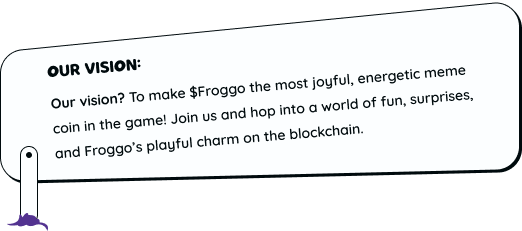
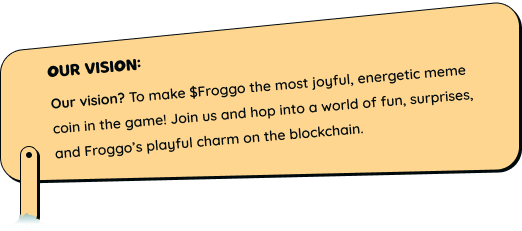
first commit

diff --git a/src/app/component/Pagethree.js b/src/app/component/Pagethree.js
@@ -1,19 +1,22 @@
 import React from 'react';
 import Image from 'next/image';
 import image10 from './image/image10.png';
+import image11 from './image/image11.png';
 import image15 from './image/image15.png';
 import image16 from './image/image16.png'
 
 
 const Pagethree = () => {
     return (
-        <div className='bg-[#FBE287] relative z-0'>
+        <div className='lineargredientimagebackground relative z-0'>
+            
                         <Image className='pointer-events-none animate-contrastEffect !z-[999] absolute top-[-10px] sm:top-[-20px] lg:top-[-42px] left-[50%] translate-x-[-50%] w-full select-none ' src={image10} alt="" />
-                        <Image className='pointer-events-none animate-contrastEffect !z-[999] absolute bottom-[-10px] sm:bottom-[-20px] lg:bottom-[-42px] left-[50%] translate-x-[-50%] w-full select-none ' src={image10} alt="" />
+                        {/* <Image className='pointer-events-none animate-contrastEffect !z-[999] absolute bottom-[-10px] sm:bottom-[-20px] lg:bottom-[-42px] left-[50%] translate-x-[-50%] w-full select-none ' src={image10} alt="" /> */}
             <div className="container mx-auto py-[50px] sm:py-[60px] md:py-[80px] lg:py-[100] xl:pt-[120px] 2xl:pt-[158px]">
-                <h1 className='Froggo-headding-2 text-[40px] sm:text-[44px] md:text-[50px] lg:text-[60px] xl:text-[70px] 2xl:text-[80px] uppercase pb-[30px] sm:pb-[40px] md:pb-[50px] xl:pb-[60px] text-center'>About froggo</h1>
+                <h1 className='Froggo-headding-2 text-[40px] sm:text-[44px] md:text-[50px] lg:text-[60px] xl:text-[70px] 2xl:text-[80px] uppercase pb-[30px] sm:pb-[40px] md:pb-[50px] xl:pb-[60px] text-center'>how to buy</h1>
                 <div className="grid grid-cols-1 sm:grid-cols-2 xl:grid-cols-4 gap-14 md:gap-12 lg:gap-14 xl:gap-12 2xl:gap-12 sm:px-0 px-[24px]">
                     <div className="sectiononegetime px-[20px] sm:px-[22px] md:px-[24px] lg:px-[26px] xl:px-[28px] 2xl:px-[30.5px] rounded-[18px] lg:rounded-[24px] pt-[34px] md:pt-[44px] xl:pt-[54px] pb-[16px] md:pb-[18px] xl:pb-[22.5px]">
+                    <Image className='pointer-events-none animate-contrastEffect !z-[999] absolute top-[0px] sm:top-[0px] lg:top-[0px] left-[50%] translate-x-[-50%] w-full select-none rotate-180' src={image11} alt="" />
                         <div className="relative">
                         <div className="absolute top-[-85px] left-[-50px] w-full">
                             <div className="flex items-center">
@@ -28,7 +31,7 @@ const Pagethree = () => {
                         <div className="relative">
                         <div className="absolute top-[-85px] left-[-50px] w-full">
                             <div className="flex items-center">
-                                <p className='get-a-solana relative z-10 text-[14px] md:text-[16px] xl:text-[18px] pl-[19px] py-[23px] sm:py-[15px] md:py-[23px]'>Get a solana wallet</p>
+                                <p className='get-a-solana relative z-10 text-[14px] md:text-[16px] xl:text-[18px] pl-[19px] py-[23px] sm:py-[15px] md:py-[23px]'>Time To Load Your wallet</p>
                                 <Image className='absolute z-[5] top-0 pointer-events-none select-none' src={image15} alt='' />
                             </div>
                         </div>
@@ -39,7 +42,7 @@ const Pagethree = () => {
                         <div className="relative">
                         <div className="absolute top-[-85px] left-[-50px] w-full">
                             <div className="flex items-center">
-                                <p className='get-a-solana relative z-10 text-[14px] md:text-[16px] xl:text-[18px] pl-[19px] py-[23px] sm:py-[15px] md:py-[23px]'>Get a solana wallet</p>
+                                <p className='get-a-solana relative z-10 text-[14px] md:text-[16px] xl:text-[18px] pl-[19px] py-[7px] sm:py-[10px] md:py-[15px]'>Find Froggo on Jupiter or Meteora</p>
                                 <Image className='absolute z-[5] top-0 pointer-events-none select-none' src={image15} alt='' />
                             </div>
                         </div>
@@ -50,7 +53,7 @@ const Pagethree = () => {
                         <div className="relative">
                         <div className="absolute top-[-85px] left-[-50px] w-full">
                             <div className="flex items-center">
-                                <p className='get-a-solana relative z-10 text-[14px] md:text-[16px] xl:text-[18px] pl-[19px] py-[23px] sm:py-[15px] md:py-[23px]'>Get a solana wallet</p>
+                                <p className='get-a-solana relative z-10 text-[14px] md:text-[16px] xl:text-[18px] pl-[19px] py-[7px] sm:py-[10px] md:py-[15px]'>Bark Bark Froggo To The Moon!</p>
                                 <Image className='absolute z-[5] top-0 pointer-events-none select-none' src={image15} alt='' />
                             </div>
                         </div>
@@ -59,7 +62,10 @@ const Pagethree = () => {
                     </div>
                 </div>
             </div>
-            <Image className='pointer-events-none animate-contrastEffect w-full select-none ' src={image16} alt="" />
+            <div className='relative w-[100%vh]'>
+                <div className='bg-[#3DC0BD] h-[180px] absolute bottom-0 w-[100vh]'></div>
+            <Image className=' animate-contrastEffect w-full bottom-[-15px] sm:bottom-[-30px] lg:bottom-[-72px] relative' src={image16} alt="" />
+            </div>
         </div>
     );
 };

diff --git a/src/app/component/Footer.js b/src/app/component/Footer.js
@@ -16,9 +16,9 @@ import image13 from './image/image13.png';
 
 const Footer = () => {
     return (
-        <div className='bg-[#8B4EE7] relative overflow-hidden'>
-            <Image className='pointer-events-none animate-contrastEffect !z-[999] absolute top-[-10px] sm:top-[-20px] lg:top-[-42px] left-[50%] translate-x-[-50%] w-full select-none ' src={image10} alt="" />
-            <div><Image className='absolute top-[76px] left-0 w-full z-0 swimmingEffect pointer-events-none pb-[76px]select-none' src={image13} alt='swming'/>
+        <div className='bg-[#3DC0BD] relative overflow-hidden'>
+            <Image className='pointer-events-none animate-contrastEffect !z-[999] absolute top-[-15px] sm:top-[-30px] lg:top-[-60px] left-[50%] translate-x-[-50%] w-full select-none ' src={image10} alt="" />
+            <div className='w-full'><Image className='absolute top-[76px] left-0 w-full swimmingEffect pointer-events-none pb-[76px] select-none' src={image13} alt='swming'/>
             <div className="container mx-auto">
                 <div className="">
                     <div className="container mx-auto pt-[50px] sm:pt-[60px] md:pt-[70px] lg:pt-[80px] xl:pt-[90px] 2xl:pt-[100px] pb-[60px] sm:pb-[90px] md:pb-[120px] lg:pb-[150px] xl:pb-[170px] 2xl:pb-[189px]">
@@ -29,14 +29,14 @@ const Footer = () => {
                                     <Image src={image18} className='mt-[52px] w-[90px] sm:w-fit' alt=""/>
                                 </div>
                                 <div className='flex flex-col sm:flex-row gap-[16px] w-full'>
-                                    <div className='bg-[#6A3AB2] py-[14px] sm:py-[16px] lg:py-[20px] 2xl:py-[24px] border border-[#000A0D] shadow-new-box-shadow pl-[38px] pr-[36px] rounded-[24px] w-full sm:w-[90%]'>
+                                    <div className='bg-[#404547] py-[14px] sm:py-[16px] lg:py-[20px] 2xl:py-[24px] border border-[#000A0D] shadow-new-box-shadow pl-[38px] pr-[36px] rounded-[24px] w-full sm:w-[90%]'>
                                         <h2 className='Billion-Supply-header text-[32px] text-center sm:text-left'>1 Billion Supply</h2>
                                         <div className='border-b border-dashed sm:w-[85%] border-[#FCFEFF] mt-[16px]'></div>
                                         <h4 className='text-[17px] tokens—plenty-paragraph text-[#FCFEFF] mt-[12px]'>
                                         Limited to 1 billion tokens—<br/>plenty of bones to go around!
                                         </h4>
                                     </div>
-                                    <div className='bg-[#6A3AB2] py-[14px] sm:py-[16px] lg:py-[20px] 2xl:py-[24px] border border-[#000A0D] shadow-new-box-shadow pl-[38px] pr-[36px] rounded-[24px] w-full'>
+                                    <div className='bg-[#404547] py-[14px] sm:py-[16px] lg:py-[20px] 2xl:py-[24px] border border-[#000A0D] shadow-new-box-shadow pl-[38px] pr-[36px] rounded-[24px] w-full'>
                                         <h2 className='Billion-Supply-header text-[32px] text-center'>Liquidity Locked</h2>
                                         <div className='border-b border-dashed w-[100%] border-[#FCFEFF] mt-[16px]'></div>
                                         <h4 className='text-[17px] tokens—plenty-paragraph text-[#FCFEFF] mt-[12px]'>
@@ -97,9 +97,9 @@ const Footer = () => {
                 </div>
             </div>
             </div>
-            <Image className='pointer-events-none animate-contrastEffect !z-[999] absolute bottom-[-10px] sm:bottom-[-20px] lg:bottom-[-42px] left-[50%] translate-x-[-50%] w-full select-none' src={image10} alt="" />
-            <Image className='pointer-events-none animate-contrastEffect !z-[999] absolute bottom-[10px] sm:bottom-[20px] lg:bottom-[42px] left-[50%] translate-x-[-50%] w-full select-none' src={image20} alt="" />
-            <Image className='pointer-events-none animate-contrastEffect !z-[999] absolute bottom-0 left-[50%] translate-x-[-50%] w-full select-none' src={image21} alt="" />
+            <Image className='pointer-events-none animate-contrastEffect  absolute bottom-[-10px] sm:bottom-[-20px] lg:bottom-[-42px] left-[50%] translate-x-[-50%] w-full select-none' src={image10} alt="" />
+            <Image className='pointer-events-none animate-contrastEffect  absolute bottom-[10px] sm:bottom-[20px] lg:bottom-[42px] left-[50%] translate-x-[-50%] w-full select-none' src={image20} alt="" />
+            <Image className='pointer-events-none animate-contrastEffect  absolute bottom-0 left-[50%] translate-x-[-50%] w-full select-none' src={image21} alt="" />
         </div>
     );
 };

diff --git a/src/app/component/HeroArea.js b/src/app/component/HeroArea.js
@@ -11,6 +11,8 @@ import image8 from './image/image8.png';
 import image9 from './image/image9.png';
 import image11 from './image/image11.png';
 import image10 from './image/image10.png';
+import image23 from './image/image23.png';
+
 
 const HeroArea = () => {
     const [text, setText] = useState("COPY");
@@ -31,21 +33,21 @@ const HeroArea = () => {
             <div className="container mx-auto">
                 <div className="flex justify-between items-end pt-[20px] sm:pt-[54px] lg:pt-[69px] pb-[60px] sm:pb-[70px] lg:pb-[100px] xl:pb-[120px] 2xl:pb-[141px]  sm:flex-row flex-col-reverse px-[24px] sm:px-[0]">
                     <div className="flex-1 pt-[100px] sm:pt-0">
-                        <Image className='w-[80%] pointer-events-none select-none' src={image4} alt="" />
+                        <Image className='w-[90%] pointer-events-none select-none' src={image4} alt="" />
                     </div>
                     <div className="flex-1">
                         <h1 className='Froggo-headding text-[70px] sm:text-[65px] md:text-[80px] lg:text-[110px] xl:text-[130px] 2xl:text-[156px] uppercase'>$Froggo</h1>
-                        <p className='bark-pragraph text-[16px] sm:text-[18px] lg:text-[20px] pb-[25] sm:pb-[28px] lg:pb-[32px]'>
+                        <p className='bark-pragraph text-[16px] sm:text-[18px] lg:text-[20px] pb-[25] sm:pb-[28px] lg:pb-[32px] !text-[#FCFEFF]'>
                             Bark... Froggo’s digging deep! <br />
                             Ready to explore some treasures? <br />
                             <strong>Bark... Bark...  </strong>
                         </p>
                         <label htmlFor='copy' className='TOKEN-ADDRESS block mb-[25px]'>TOKEN ADDRESS:</label>
 
-                        <div id='copy' className='flex justify-between items-center w-fit sm:w-full py-[8px] sm:py-[12px] pr-[12px] pl-[16px] rounded-xl md:rounded-2xl xl:rounded-3xl text-[15px] lg:text-[16px] xl:text-[18px] 2xl:text-[22px]'><input type="text" className='w-full bg-transparent border-none placeholder:text-[#FCFEFF]' placeholder='CJ8oT6dHzyHsXBq6JdhRHiRto3Le96pHyPchqfYdPxhN' /><button title={text} className='copy-styling-items py-[8px] sm:py-[10px] xl:py-[12px] 2xl:py-[14px] px-[14px] sm:px-[16px] xl:px-[22px] 2xl:px-[24px] rounded-lg sm:rounded-xl lg:rounded-[16px] ml-[32px] duration-300  text-[15px] lg:text-[16px] xl:text-[18px] 2xl:text-[22px] xl:leading-[22px] 2xl:leading-[28.6px]' onClick={handleChangeText}>{text}</button></div> 
+                        <div id='copy' className='flex justify-between items-center w-fit sm:w-full py-[8px] sm:py-[12px] pr-[12px] pl-[16px] rounded-xl md:rounded-2xl xl:rounded-3xl text-[15px] lg:text-[16px] xl:text-[18px] 2xl:text-[22px] relative z-50'><input type="text" className='w-full bg-transparent border-none placeholder:text-[#FCFEFF] relative z-50' placeholder='CJ8oT6dHzyHsXBq6JdhRHiRto3Le96pHyPchqfYdPxhN' /><button title={text} className='copy-styling-items py-[8px] sm:py-[10px] xl:py-[12px] 2xl:py-[14px] px-[14px] sm:px-[16px] xl:px-[22px] 2xl:px-[24px] rounded-lg sm:rounded-xl lg:rounded-[16px] ml-[32px] duration-300  text-[15px] lg:text-[16px] xl:text-[18px] 2xl:text-[22px] xl:leading-[22px] 2xl:leading-[28.6px] relative z-50' onClick={handleChangeText}>{text}</button></div> 
                         <div className="flex items-center pt-[52px] flex-col md:flex-row">
                             <div className="flex-1">
-                            <Image src={image5} alt="" />
+                            <Image className='pointer-events-none select-none' src={image5} alt="" />
                             </div>
                             <div className="relative flex-1">
                                 <Image className=' absolute top-[-50px] left-0 w-full animate-contrastEffect pointer-events-none select-none' src={image7} alt="" />
@@ -54,7 +56,7 @@ const HeroArea = () => {
                         </div>
                         
                     </div>
-                    <Image className='pointer-events-none select-none absolute bottom-[0px] left-[50%] translate-x-[-50%]' src={image11} alt="" />
+                    <Image className='pointer-events-none select-none absolute top-0 left-[50%] translate-x-[-50%] z-[-1]' src={image23} alt="" />
                     <Image className='pointer-events-none select-none animate-contrastEffect z-10 absolute bottom-[-10px] sm:bottom-[-20px] lg:bottom-[-42px] left-[50%] translate-x-[-50%] w-full ' src={image10} alt="" />
                 </div>
             </div>

diff --git a/src/app/globals.css b/src/app/globals.css
@@ -27,6 +27,11 @@
   .iconbg{
     @apply bg-[#404547] border-[1px] border-[#000A0D] flex justify-center items-center rounded-[8px] sm:rounded-[12px] xl:rounded-2xl w-[20.69px] sm:w-[24px] md:w-[27.69px] xl:w-[30.69px] h-[20.69px] sm:h-[24px] md:h-[27.69px] xl:h-[30.69px]
   }
+
+  .iconbgs{
+    @apply bg-[#FCFEFF] border-[1px] border-[#000A0D] flex justify-center items-center rounded-[8px] sm:rounded-[12px] xl:rounded-2xl w-[20.69px] sm:w-[24px] md:w-[27.69px] xl:w-[30.69px] h-[20.69px] sm:h-[24px] md:h-[27.69px] xl:h-[30.69px]
+  }
+
   .main-icon-li{
     @apply bg-[#FCFEFF] rounded-xl sm:rounded-2xl xl:rounded-3xl  border-[1px] border-[#000A0D] flex justify-center items-center w-[32px] sm:w-[44px] md:w-[54px] xl:w-[64px] h-[32px] sm:h-[44px] md:h-[54px] xl:h-[64px]
   }
@@ -67,7 +72,7 @@
     font-weight: 400;
     line-height: 187.2px;
     text-align: left;
-    color: #FCFEFF;
+    color: #22DF2F;
     -webkit-text-stroke: 2px #000A0D;
     text-shadow: 0px 8px 0px #000A0D;
   }
@@ -78,7 +83,7 @@
     font-weight: 400;
     line-height: 28.6px;
     text-align: left;
-    color: #FCFEFF;
+    color: #22DF2F;
     -webkit-text-stroke: 0.6px #000000;
     text-shadow: 0px 1px 0px #000000;
   }
@@ -102,7 +107,7 @@
     color: #FCFEFF;
   }
   .Froggo-headding-2{
-    font-family: Milky Nice;
+    font-family: 'Milky';
     font-weight: 400;
     line-height: 96px;
     text-align: left;
@@ -144,7 +149,7 @@
     text-align: center;
   }
   .sectiononegetime{
-    background: #8B4EE7;
+    background: #FCFEFF;
     border: 1px solid #000A0D;
     box-shadow: 2px 2px 0px 0px #000A0D;
   }
@@ -154,7 +159,7 @@
     font-weight: 400;
     line-height: 21.6px;
     text-align: left;
-    color: #FCFEFF;
+    color: #000A0D;
   }
   .footer-TOKENOMICS-h2{
     font-family: "Milky";
@@ -183,12 +188,12 @@
     text-shadow: 0px 2px 0px #000A0D;
   }
   .fotter-secend-area{
-    background: #FBE287;
+    background: #119B98;
     border: 1px solid #000A0D;
     box-shadow: 6px 6px 0px 0px #000A0D;
   }
   .backgroundtext{
-    background: #FCB297;
+    background: #FFD68F;
     border: 1px solid #000A0D;
     box-shadow: 2px 2px 0px 0px #000A0D;
   }
@@ -226,4 +231,8 @@
   color: #000A0D;
   text-shadow: 0px 2px 0px 0px #22DF2F;
 }
+.lineargredientimagebackground{
+  background: linear-gradient(0deg, rgba(9, 35, 41, 0.5) 0.84%, rgba(10, 58, 60, 0.4) 27.77%, #3DC0BD 99.89%);
+}
+
 }

diff --git a/src/app/component/Header.js b/src/app/component/Header.js
@@ -3,15 +3,20 @@ import Navbar from "./Navbar";
 import HeroArea from "./HeroArea";
 import image8 from './image/image8.png';
 import image9 from './image/image9.png';
+import image22 from './image/image22.png';
 import Image from 'next/image';
+import starts from './image/stars.png';
 const Header = () => {
 
     return (
-        <div className="bg-[#8B4EE7]">
+        <div className="headderbackground">
+            <Image className='absolute top-[0] w-[100%] pointer-events-none select-none z-[-3]' src={image22} alt="" />
+
             <Navbar/>
             <HeroArea/>
-            <Image className='hidden sm:block animate-contrastEffect absolute top-[100px] 2xl:top-[16px] left-[16px] w-[100px] sm:w-auto' src={image8} alt="" />
-            <Image className='animate-contrastEffect absolute top-[11px] left-[0px] w-[70%]' src={image9} alt="" />
+
+            <Image className='animate-contrastEffect absolute right-[50px] top-[70px] w-[100px] sm:w-auto pointer-events-none select-none' src={image8} alt="" />
+            <Image className='animate-contrastEffect absolute top-[30px] left-[50%] translate-x-[-50%] w-[90%]  pointer-events-none select-none  z-[-2]' src={starts} alt="" />
         </div>
     );
 };

diff --git a/src/app/component/Pagetwo.js b/src/app/component/Pagetwo.js
@@ -7,11 +7,11 @@ import image14 from './image/image14.png';
 
 const Pagetwo = () => {
     return (
-        <div className="bg-[#6A3AB2] relative pt-[76px] overflow-hidden">
+        <div className="bg-[#3DC0BD] relative pt-[76px] overflow-hidden">
 
 
 
-            <Image className='absolute top-[76px] left-0 w-full z-0 swimmingEffect pointer-events-none pb-[76px]select-none' src={image13} alt='swming'/>
+            <Image className='absolute top-[76px] left-0 w-full z-0 swimmingEffect pointer-events-none pb-[76px] select-none' src={image13} alt='swming'/>
             
             <section className='container mx-auto'>
                 <div className="flex justify-center items-center pt-[73px] relative flex-col-reverse sm:flex-row">

diff --git a/src/app/golobalscsstow.css b/src/app/golobalscsstow.css
@@ -10,7 +10,7 @@
         font-weight: 600;
         line-height: 36px;
         text-align: left;
-        color: #FCFEFF;
+        color: #000A0D;
       }
       .we-recommend-using{
         font-family: "Quicksand";
@@ -18,7 +18,7 @@
         font-weight: 600;
         line-height: 30.6px;
         text-align: left;
-        color: #FCFEFF;
+        color: #000A0D;
       }
       .tokens—plenty-paragraph{
         font-family: "Quicksand";
@@ -43,6 +43,7 @@
         text-align: left;
         text-underline-position: from-font;
         text-decoration-skip-ink: none;
+        color: #FCFEFF;
       }
       .all-rights-reserved{
         font-family: 'Quicksand';
